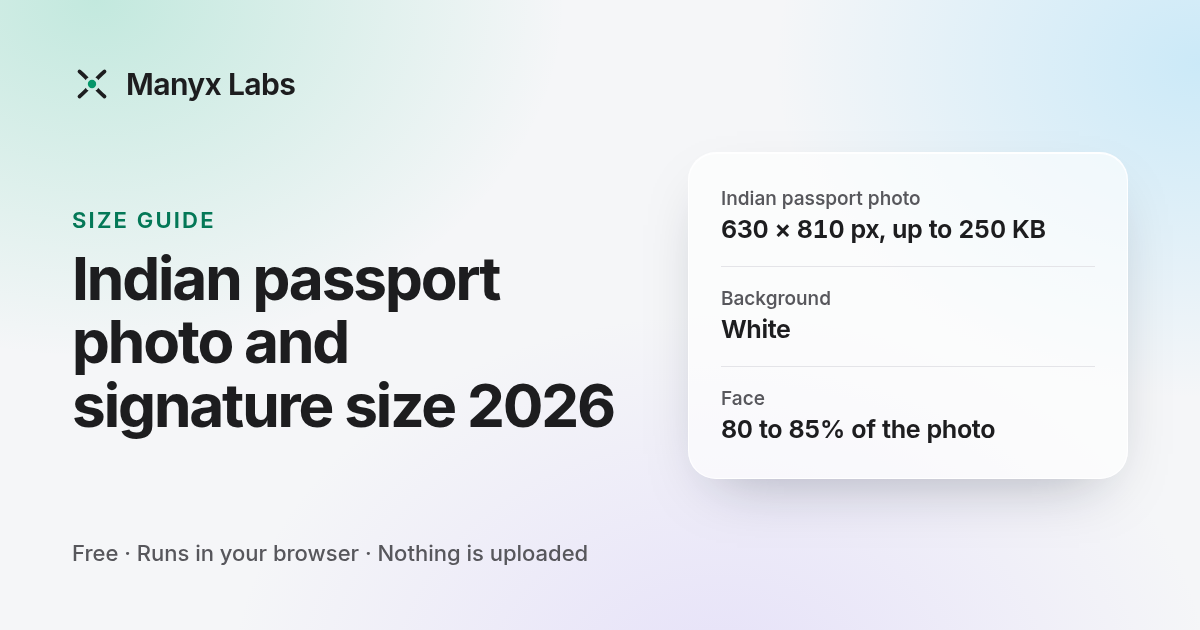
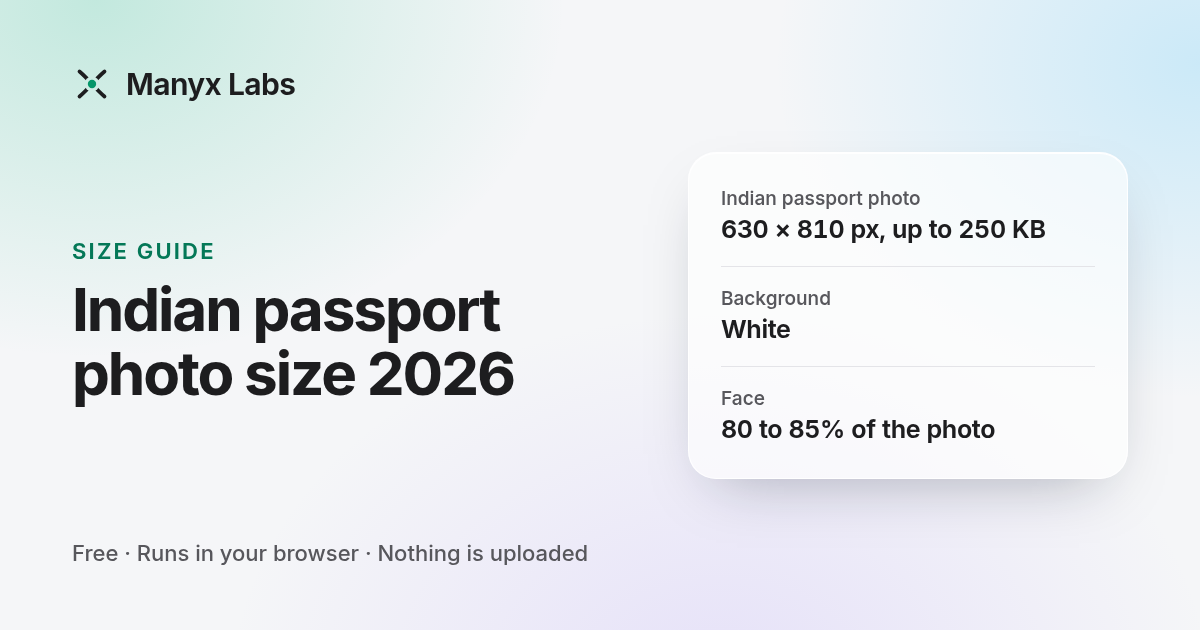
Title the passport guide by the photo it covers, and use sentence case in every page title
The Passport Seva 2.0 notice asks for a scanned signature but gives no size for it,
so the passport guide no longer promises a signature size in its title, links or share card,
and says the notice gives none. Page titles now use the sentence case the headings,
cards and tool names already use.

Changed region(s): [[0.0617, 0.3317, 0.5242, 0.6937]]

diff --git a/src/data/formSpecs.ts b/src/data/formSpecs.ts
@@ -118,7 +118,7 @@ export const exams: Exam[] = [
       url: 'https://www.hcigaborone.gov.in/docs/1764218847Notice%20_%20New%20ICAO-Guidelines.pdf',
     },
     notes: [
-      'Since Passport Seva moved to version 2.0, applicants upload an ICAO-compliant photo and a scanned signature themselves.',
+      'Since Passport Seva moved to version 2.0, applicants upload an ICAO-compliant photo and a scanned signature themselves. The notice gives no size for the signature.',
       'Photo: in colour, 630\u00a0×\u00a0810 pixels, on a white background. A close-up of the head and the top of the shoulders, with the face taking up 80 to 85% of the picture, looking straight at the camera with eyes open and mouth closed. Take off glasses, and keep hair away from your eyes.',
       'The notice also asks for photos unaltered by computer software, so stand against a plain white wall rather than replacing the background.',
       'The notice gives no file size limit. The preset keeps the file under 250 KB.',
@@ -162,6 +162,13 @@ export const exams: Exam[] = [
     ],
   },
 ];
+
+/**
+ * A guide names a signature only when it lists one. Every guide answers the photo, even SSC's,
+ * whose notes say the photo is taken live rather than uploaded.
+ */
+export const guideTitle = (exam: Exam) =>
+  `${exam.name} photo${exam.specs.some((s) => s.label.startsWith('Signature')) ? ' and signature' : ''} size ${CHECKED.year}`;
 
 export const examOf = (spec: FormSpec) => exams.find((e) => e.specs.includes(spec))!;
 

diff --git a/e2e/photo-resizer.spec.ts b/e2e/photo-resizer.spec.ts
@@ -227,7 +227,7 @@ test('the guides fit a phone and link to one another', async ({ page }) => {
   await page.setViewportSize({ width: 390, height: 844 });
   for (const exam of GUIDES) {
     await page.goto(`/photo-size/${exam}/`);
-    await expect(page.getByRole('heading', { level: 1 })).toContainText(/photo and signature size \d{4}/);
+    await expect(page.getByRole('heading', { level: 1 })).toContainText(/photo( and signature)? size \d{4}/);
     expect(await page.evaluate(() => document.documentElement.scrollWidth - innerWidth)).toBeLessThanOrEqual(0);
     for (const other of GUIDES.filter((g) => g !== exam))
       await expect(page.locator(`a[href="/photo-size/${other}/"]`).first()).toBeVisible();
